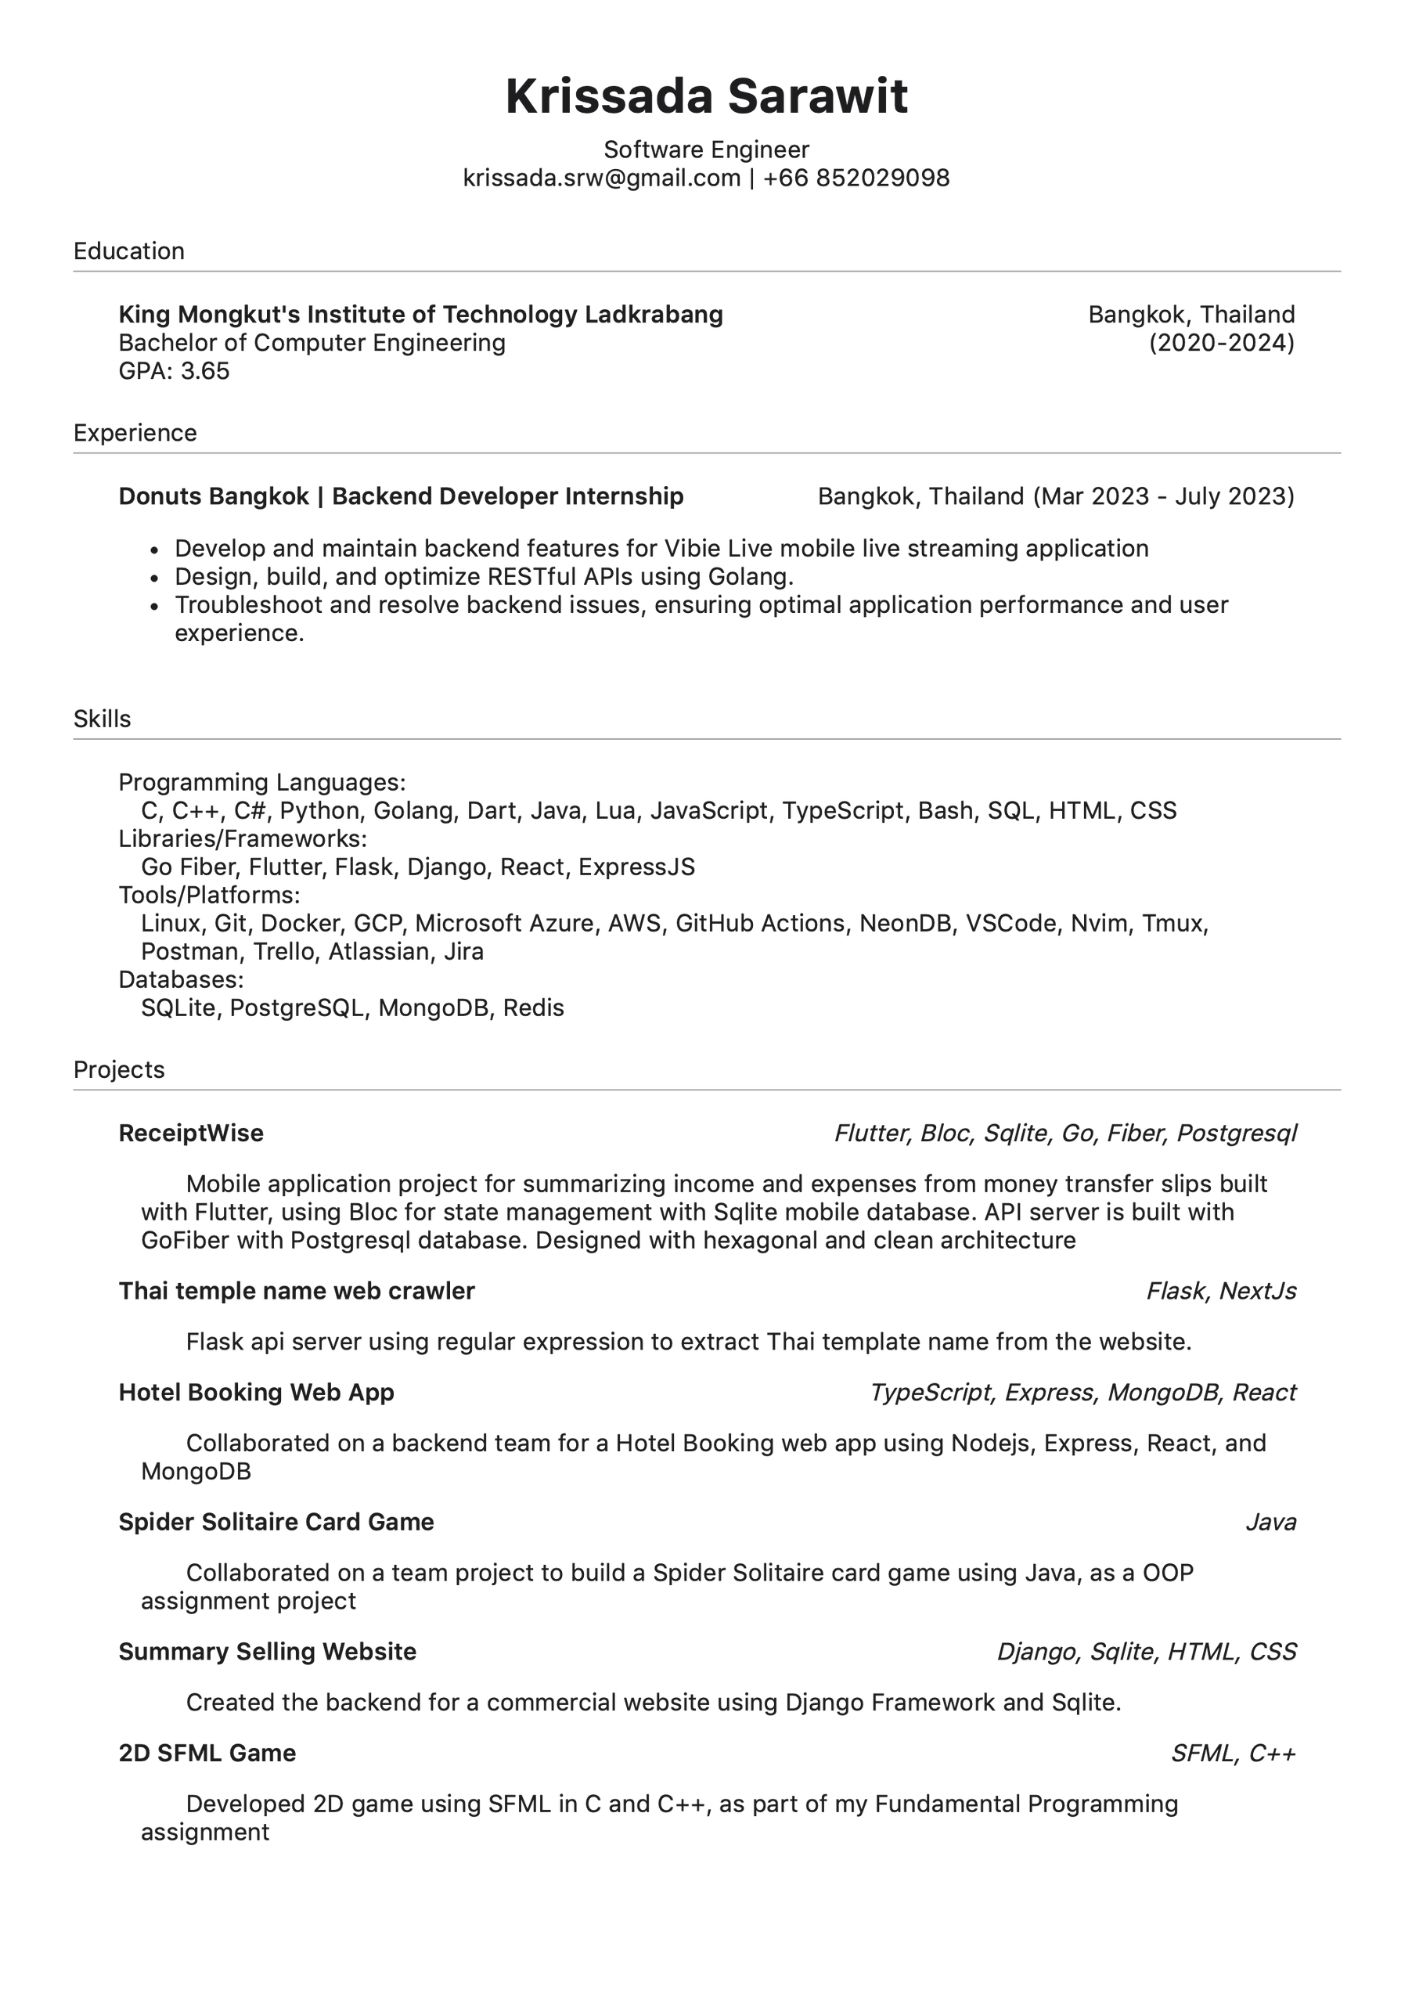
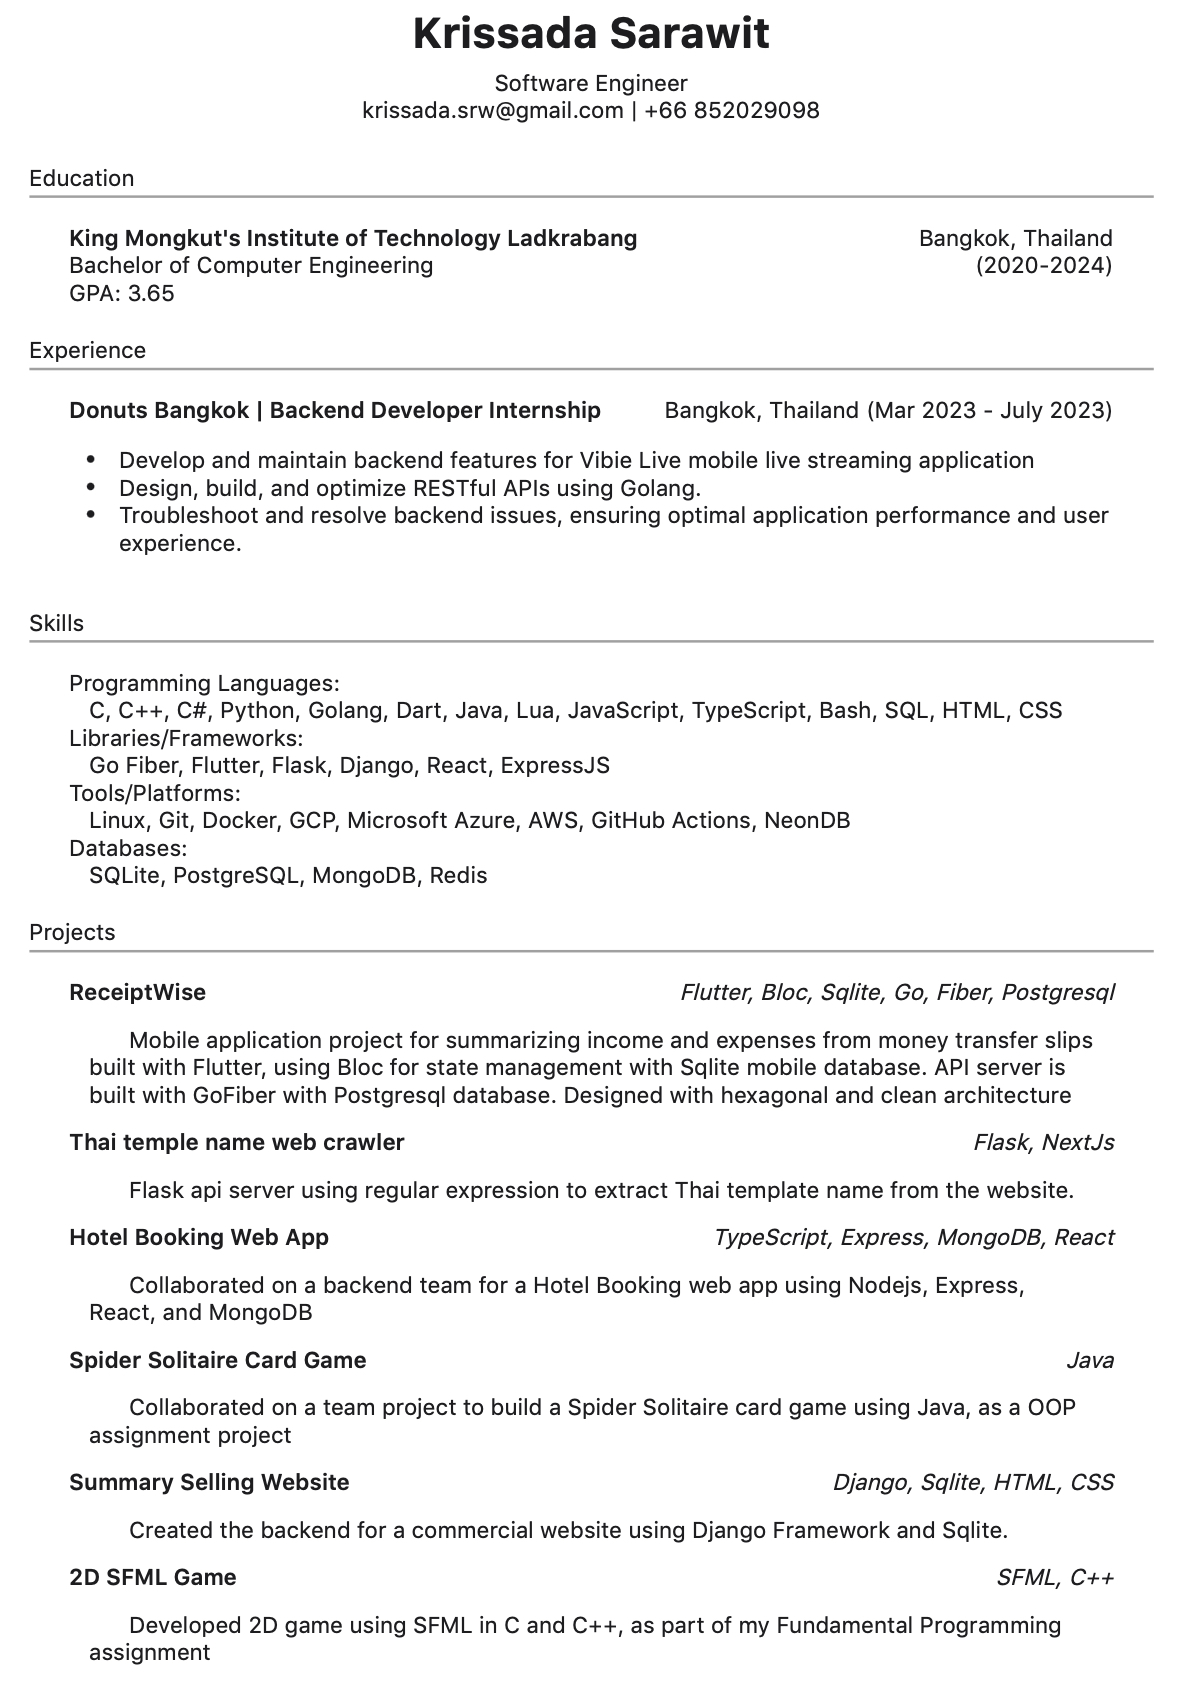
update resume

diff --git a/index.html b/index.html
@@ -119,7 +119,7 @@
         <div class="skill-list-container">
           <div class="topic-font-body">
             Linux, Git, Docker, GCP, Microsoft Azure, AWS, GitHub Actions,
-            NeonDB, VSCode, Nvim, Tmux, Postman, Trello, Atlassian, Jira
+            NeonDB
           </div>
         </div>
       </div>
